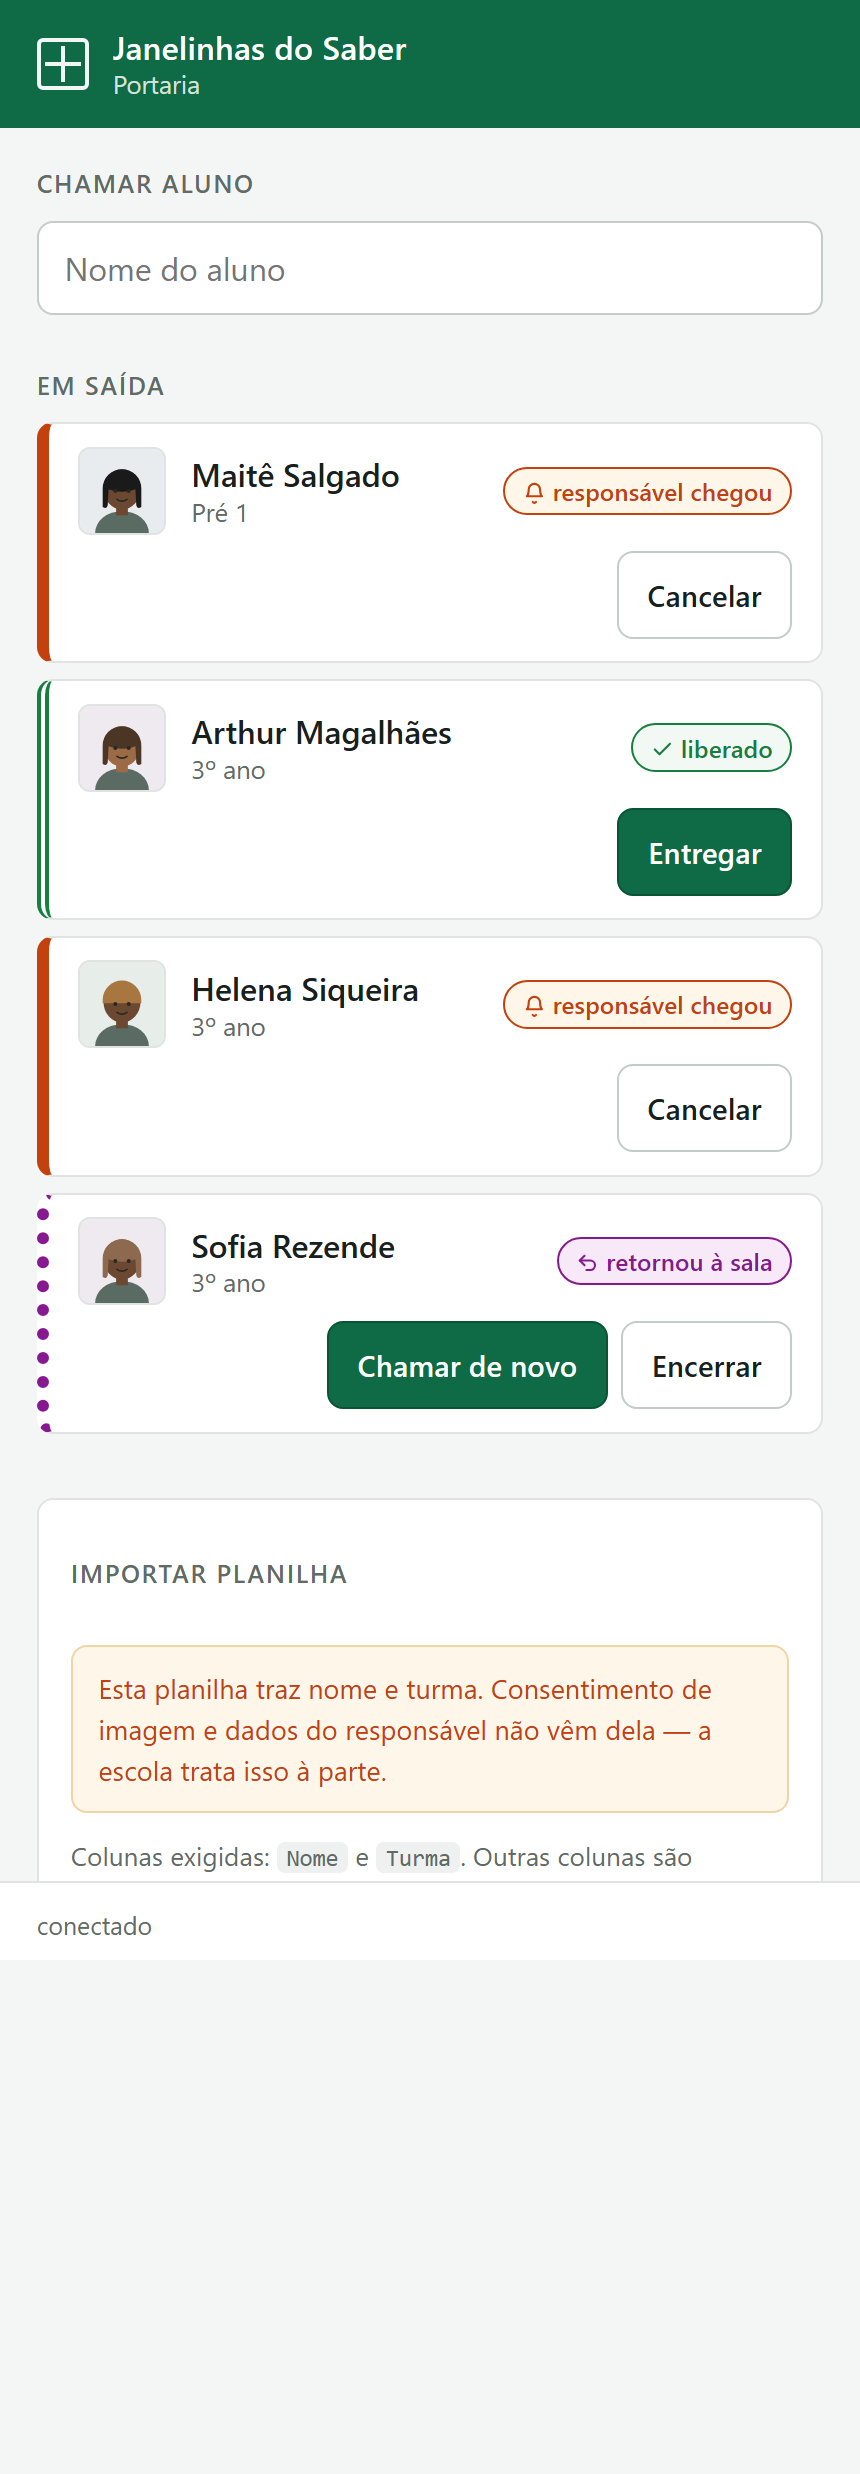
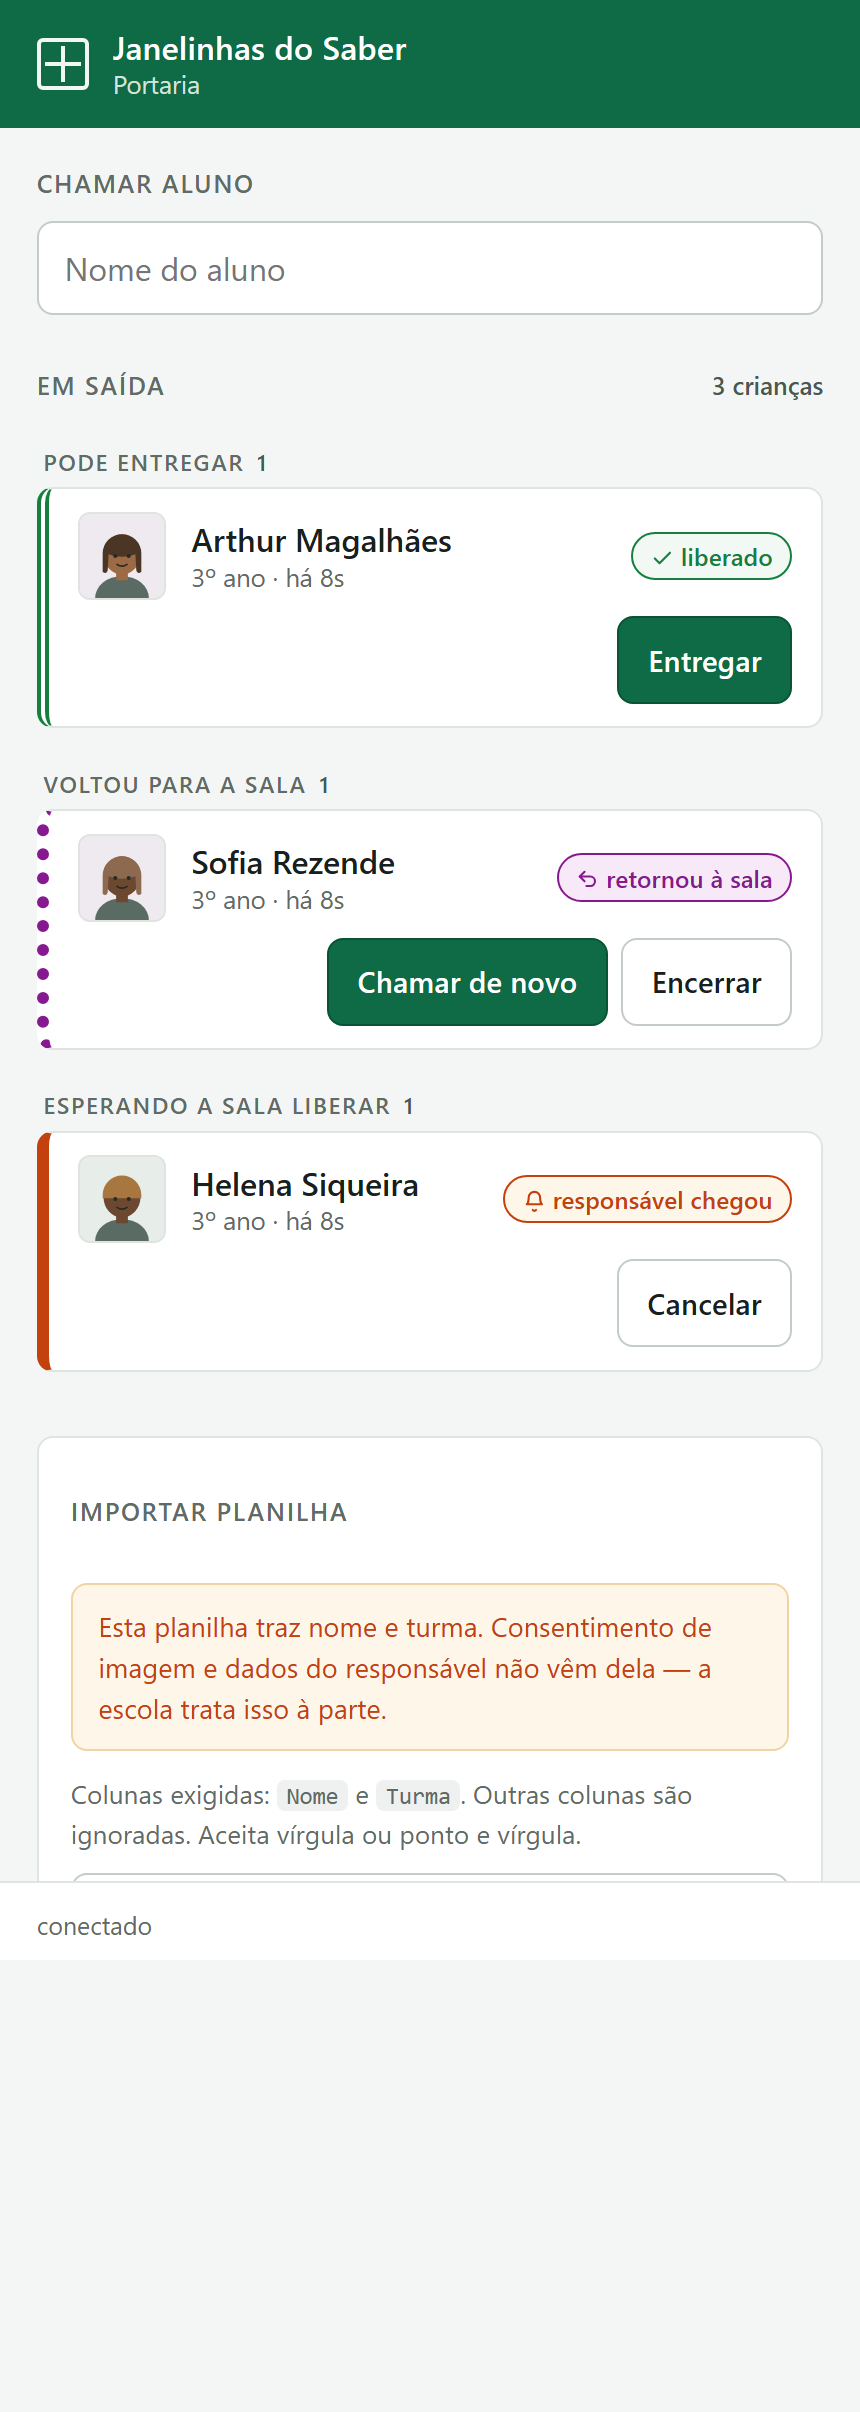
1.3 A fila em saida diz o tamanho, a espera, e o que fazer primeiro
A tela que gerencia a fila era a unica que nao mostrava o tamanho dela, e o
campo `desde` existia desde o comeco sem nunca ter sido desenhado.

ORDEM POR ACAO, nao so por chegada. A porteira olha esta lista para saber o
que fazer AGORA: `liberado` e crianca a caminho do portao, para ela entregar;
`retorno` espera uma decisao dela; `chamado` esta com a sala, e nao ha nada
para ela fazer alem de cancelar. Entao as acoes dela sobem, e dentro de cada
grupo a ordem continua sendo `desde` — estavel, para a linha nao pular de
lugar quando outra crianca muda de estado do outro lado da escola.

Cabecalho de grupo vazio nao aparece: titulo sem ninguem embaixo e ruido que
alguem precisa ler para descobrir que nao precisava.

O CRONOMETRO CONTA PELO RELOGIO DO SERVIDOR. `desde` e carimbado no Worker, e
o relogio de um tablet de escola erra minutos com facilidade — um aparelho
adiantado mostraria "esperando ha -3 min" e um atrasado esconderia uma espera
real. Cada retrato traz o `em` do servidor, e a diferenca para o relogio local
e recalculada a cada retrato.

O tique e de dez segundos, e reescreve SO o texto de um <span>. Redesenhar a
lista periodicamente seria o furo S2 automatizado: o botao sob o dedo da
porteira trocado por conta propria, sem nem haver um evento do outro lado. Ha
verificacao guardando exatamente isso — os nos antes e depois do tique
precisam ser os MESMOS objetos, e so o tempo escrito pode ter mudado.
[…]

diff --git a/web/portaria/index.html b/web/portaria/index.html
@@ -14,6 +14,23 @@
       font-size: 0.85rem; padding: 0.5rem 0.7rem; margin: 0.6rem 0 0;
     }
     .corte { font-size: 0.82rem; color: var(--tinta-fraca); padding: 0.5rem 0.2rem; }
+    .contagem-secao {
+      float: right; text-transform: none; letter-spacing: 0;
+      font-weight: 500; color: var(--tinta-media);
+    }
+    /*
+      Cabeçalho de grupo. É um <li> para viver dentro da mesma <ul> e passar
+      pela mesma reconciliação por chave das linhas — uma lista com duas
+      estruturas paralelas seria a chance de as duas saírem de sincronia.
+    */
+    .grupo {
+      list-style: none;
+      font-size: 0.72rem; font-weight: 600; text-transform: uppercase;
+      letter-spacing: 0.07em; color: var(--tinta-fraca);
+      padding: 0.7rem 0.2rem 0.25rem;
+      display: flex; align-items: baseline; gap: 0.4rem;
+    }
+    .grupo .quantos { color: var(--tinta-media); }
     .duasAcoes { display: flex; gap: 0.4rem; }
     .duasAcoes button { white-space: nowrap; }
     details {
@@ -78,7 +95,15 @@
     <p class="corte" id="corteBusca" hidden></p>
     <p class="vazio" id="semResultado" hidden>Nenhum aluno com esse nome.</p>
 
-    <p class="secao">Em saída</p>
+    <p class="secao">
+      Em saída
+      <!--
+        A tela que gerencia a fila era a única que não mostrava o tamanho dela.
+        A contagem fica no cabeçalho, e não no rodapé, porque é aqui que a
+        porteira olha antes de decidir se dá conta ou chama reforço.
+      -->
+      <span class="contagem-secao" id="contagemSaida" hidden></span>
+    </p>
     <ul id="ativas"></ul>
     <p class="vazio" id="nenhuma">Ninguém em saída agora.</p>
 
@@ -114,6 +139,47 @@
     let ativas = []
     let versaoCadastro = null
 
+    /*
+      O cronômetro conta pelo relógio do SERVIDOR, não pelo do tablet.
+
+      `desde` é carimbado no Worker. O relógio de um tablet de escola erra
+      minutos com facilidade, e um aparelho adiantado mostraria "esperando há
+      -3 min", enquanto um atrasado esconderia uma espera real. Cada retrato
+      traz o `em` do servidor: a diferença entre ele e o relógio local é o
+      deslocamento, e ele é recalculado a cada retrato.
+    */
+    let deslocamentoDoRelogio = 0
+    const agoraNoServidor = () => Date.now() + deslocamentoDoRelogio
+
+    /** "há 4 min", em português curto. Segundos só no primeiro minuto. */
+    function espera(desde) {
+      const s = Math.max(0, Math.round((agoraNoServidor() - desde) / 1000))
+      if (s < 60) return `há ${s}s`
+      const min = Math.floor(s / 60)
+      if (min < 60) return `há ${min} min`
+      const h = Math.floor(min / 60)
+      return `há ${h}h${String(min % 60).padStart(2, '0')}`
+    }
+
+    /*
+      A ordem da fila, e por que ela não é só `desde`.
+
+      A porteira olha esta lista para saber O QUE FAZER AGORA. `liberado` é
+      criança a caminho do portão, para ela entregar; `retorno` espera uma
+      decisão dela; `chamado` está com a sala, e não há nada para ela fazer
+      além de cancelar. Então as ações dela sobem.
+
+      Dentro de cada grupo a ordem é `desde`, que é estável: quem chegou antes
+      fica antes, e a linha não pula de lugar quando outra criança muda de
+      estado do outro lado da escola.
+    */
+    const GRUPOS = [
+      ['liberado', 'Pode entregar'],
+      ['retorno', 'Voltou para a sala'],
+      ['chamado', 'Esperando a sala liberar'],
+    ]
+    const PRIORIDADE = Object.fromEntries(GRUPOS.map(([e], i) => [e, i]))
+
     const conexao = ligar({
       papel: 'portaria',
       aoEstadoDaRede: (estado) => {
@@ -121,6 +187,9 @@
         rede.textContent = estado === 'ligado' ? 'conectado' : 'reconectando…'
       },
       aoRetrato: (retrato) => {
+        if (typeof retrato.em === 'number' && retrato.em > 0) {
+          deslocamentoDoRelogio = retrato.em - Date.now()
+        }
         ativas = retrato.chamadas
         desenharAtivas()
         // NAO chamar campo.oninput() aqui. Reconstruir os resultados da busca
@@ -308,11 +377,40 @@
       }
     }
 
+    /** Cabeçalhos de grupo, por estado. Vivem na mesma <ul> das linhas. */
+    const cabecalhos = new Map()
+
+    function cabecalhoDe(estado, rotulo, quantos) {
+      let li = cabecalhos.get(estado)
+      if (!li) {
+        li = document.createElement('li')
+        li.className = 'grupo'
+        li.dataset.grupo = estado
+        const texto = document.createElement('span')
+        texto.textContent = rotulo
+        const conta = document.createElement('span')
+        conta.className = 'quantos'
+        li.append(texto, conta)
+        li.__conta = conta
+        cabecalhos.set(estado, li)
+      }
+      li.__conta.textContent = String(quantos)
+      return li
+    }
+
     function desenharAtivas() {
       const ul = document.getElementById('ativas')
-      const ordenadas = [...ativas].sort((a, b) => a.desde - b.desde)
+      const ordenadas = [...ativas].sort(
+        (a, b) =>
+          (PRIORIDADE[a.estado] ?? 9) - (PRIORIDADE[b.estado] ?? 9) || a.desde - b.desde,
+      )
       const presentes = new Set(ordenadas.map((c) => c.alunoId))
       document.getElementById('nenhuma').hidden = ordenadas.length > 0
+
+      const contagem = document.getElementById('contagemSaida')
+      contagem.hidden = ordenadas.length === 0
+      contagem.textContent =
+        ordenadas.length === 1 ? '1 criança' : `${ordenadas.length} crianças`
 
       podar(ul, linhasAtivas, presentes)
 
@@ -363,9 +461,54 @@
           li.dataset.acao = acaoDesejada
           definirAcao(li, acaoPara(acaoDesejada, c))
         }
+        li.__desde = c.desde
       }
-      ordenar(ul, ordenadas.map((c) => c.alunoId), linhasAtivas)
+
+      /*
+        A sequência final intercala cabeçalhos e linhas na mesma <ul>, e passa
+        pela mesma reconciliação por chave. Um cabeçalho de grupo vazio não
+        entra — grupo com título e sem ninguém dentro é ruído que a porteira
+        precisa ler para descobrir que não precisava.
+      */
+      const sequencia = []
+      const mapa = new Map(linhasAtivas)
+      for (const [estado, rotulo] of GRUPOS) {
+        const doGrupo = ordenadas.filter((c) => c.estado === estado)
+        if (doGrupo.length === 0) continue
+        const chave = `grupo:${estado}`
+        mapa.set(chave, cabecalhoDe(estado, rotulo, doGrupo.length))
+        sequencia.push(chave, ...doGrupo.map((c) => c.alunoId))
+      }
+      // Estado sem grupo declarado ainda aparece, no fim, em vez de sumir.
+      for (const c of ordenadas) {
+        if (!(c.estado in PRIORIDADE)) sequencia.push(c.alunoId)
+      }
+
+      for (const [estado, li] of cabecalhos) {
+        if (!sequencia.includes(`grupo:${estado}`)) li.remove()
+      }
+
+      ordenar(ul, sequencia, mapa)
+      atualizarEsperas()
     }
+
+    /*
+      Só os cronômetros mudam a cada tique — nunca a estrutura.
+
+      Reconstruir a lista de dez em dez segundos seria trocar o nó sob o dedo da
+      porteira por conta própria, sem nem haver um evento: exatamente o furo S2,
+      agora automatizado. Aqui só o `textContent` de um <span> é reescrito.
+
+      Dez segundos, e não um: a espera na saída se mede em minutos, e um número
+      piscando a cada segundo é um pedido de atenção que nunca vale a pena.
+    */
+    function atualizarEsperas() {
+      for (const li of linhasAtivas.values()) {
+        const alvo = li.querySelector('.espera')
+        if (alvo && typeof li.__desde === 'number') alvo.textContent = espera(li.__desde)
+      }
+    }
+    setInterval(atualizarEsperas, 10_000)
 
     function placar(rotulo, valor, ruim) {
       const d = document.createElement('div')

diff --git a/web/demo-offline.html b/web/demo-offline.html
@@ -372,6 +372,11 @@ body {
   color: var(--tinta-fraca);
 }
 
+/* O ponto so aparece quando ha os dois lados; sem ele a linha comecaria com
+   um separador solto enquanto o cronometro ainda nao foi escrito. */
+.linha .espera:not(:empty)::before { content: " · "; }
+.linha .espera { font-variant-numeric: tabular-nums; }
+
 
 /* ---------- faixa lateral de estado ---------- */
 
@@ -978,9 +983,25 @@ function criarLinha({ nome, turma, estado }) {
   bloco.className = 'nome'
   bloco.append(document.createTextNode(nome))
 
+  /*
+    A turma e a espera dividem a mesma linha de detalhe, em spans separados.
+
+    Separados porque o tempo muda a cada tique e a turma nao: escrever os dois
+    juntos obrigaria a reescrever o texto inteiro a cada dez segundos, e o
+    proximo `textContent =` seria mais uma chance de apagar algo por engano —
+    foi assim que a etiqueta perdeu o icone.
+  */
   const detalhe = document.createElement('span')
   detalhe.className = 'detalhe'
-  detalhe.textContent = turma
+
+  const turmaEl = document.createElement('span')
+  turmaEl.className = 'turma-da-linha'
+  turmaEl.textContent = turma
+
+  const espera = document.createElement('span')
+  espera.className = 'espera'
+
+  detalhe.append(turmaEl, espera)
   bloco.append(detalhe)
 
   raiz.append(foto(nome, 'foto'), bloco)

diff --git a/web/comum/cartao.js b/web/comum/cartao.js
@@ -145,9 +145,25 @@ export function criarLinha({ nome, turma, estado }) {
   bloco.className = 'nome'
   bloco.append(document.createTextNode(nome))
 
+  /*
+    A turma e a espera dividem a mesma linha de detalhe, em spans separados.
+
+    Separados porque o tempo muda a cada tique e a turma nao: escrever os dois
+    juntos obrigaria a reescrever o texto inteiro a cada dez segundos, e o
+    proximo `textContent =` seria mais uma chance de apagar algo por engano —
+    foi assim que a etiqueta perdeu o icone.
+  */
   const detalhe = document.createElement('span')
   detalhe.className = 'detalhe'
-  detalhe.textContent = turma
+
+  const turmaEl = document.createElement('span')
+  turmaEl.className = 'turma-da-linha'
+  turmaEl.textContent = turma
+
+  const espera = document.createElement('span')
+  espera.className = 'espera'
+
+  detalhe.append(turmaEl, espera)
   bloco.append(detalhe)
 
   raiz.append(foto(nome, 'foto'), bloco)

diff --git a/web/comum/tokens.css b/web/comum/tokens.css
@@ -365,6 +365,11 @@ body {
   color: var(--tinta-fraca);
 }
 
+/* O ponto so aparece quando ha os dois lados; sem ele a linha comecaria com
+   um separador solto enquanto o cronometro ainda nao foi escrito. */
+.linha .espera:not(:empty)::before { content: " · "; }
+.linha .espera { font-variant-numeric: tabular-nums; }
+
 
 /* ---------- faixa lateral de estado ---------- */
 
